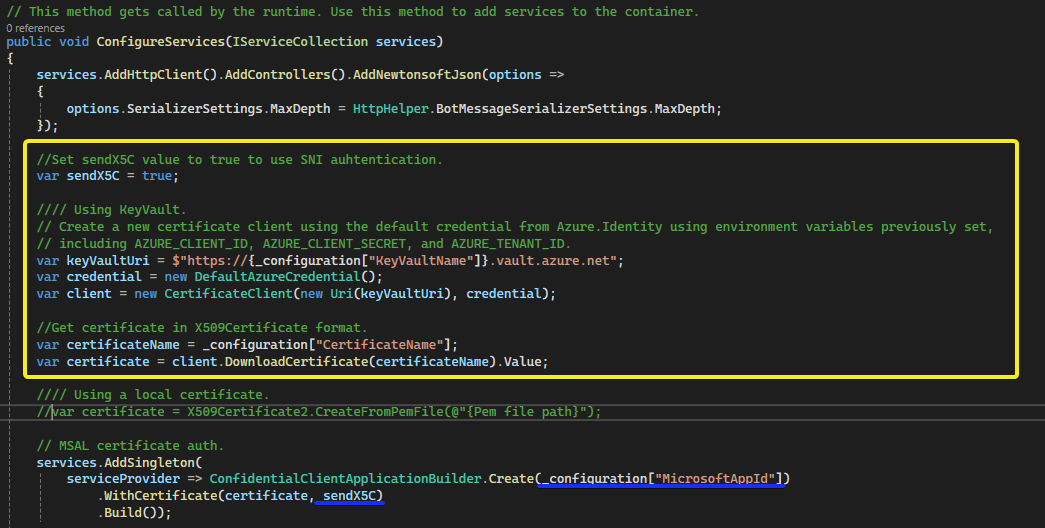
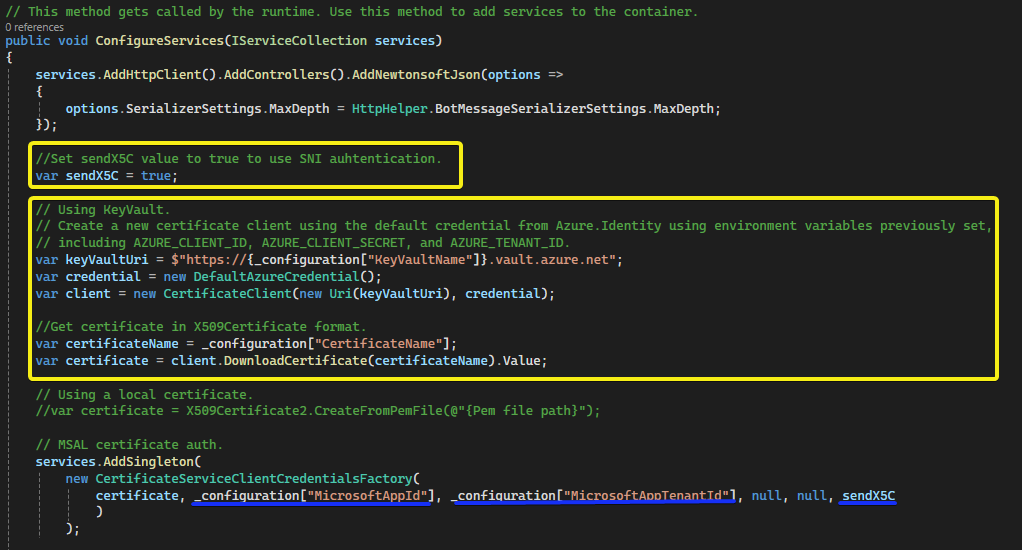
use CertificateServiceClientCredentialsFactory for SN+I auth

diff --git a/samples/csharp_dotnetcore/85.bot-authentication-sni/Startup.cs b/samples/csharp_dotnetcore/85.bot-authentication-sni/Startup.cs
@@ -53,9 +53,10 @@ namespace Microsoft.BotBuilderSamples
 
             // MSAL certificate auth.
             services.AddSingleton(
-                serviceProvider => ConfidentialClientApplicationBuilder.Create(_configuration["MicrosoftAppId"])
-                    .WithCertificate(certificate, sendX5C)
-                    .Build());
+                new CertificateServiceClientCredentialsFactory(
+                    certificate, _configuration["MicrosoftAppId"], _configuration["MicrosoftAppTenantId"], null, null, sendX5C
+                    )
+                );
 
             // MSAL credential factory: regardless of secret, cert or custom auth, need to add the line below to enable MSAL.
             services.AddSingleton<ServiceClientCredentialsFactory, MsalServiceClientCredentialsFactory>();

diff --git a/samples/csharp_dotnetcore/85.bot-authentication-sni/README.md b/samples/csharp_dotnetcore/85.bot-authentication-sni/README.md
@@ -102,7 +102,7 @@ Certificate Subject Name and Issuer (SNI) based authentication is currently avai
   Be sure to comment out or remove the lines of code that use Azure KeyVault to avoid errors.
   Keep in mind that the SNI authentication works with the sendX5C flag, keep its value in _true_.
   
-      > NOTE: Here the value of `MicrosoftAppId` is needed to generate the credentials.
+      > NOTE: Here the values of `MicrosoftAppId` and `MicrosoftTenantId` are needed to generate the credentials.
 
       ![Certificate Reading](Images/Local/CertificateReading.png)
 
@@ -140,7 +140,7 @@ Certificate Subject Name and Issuer (SNI) based authentication is currently avai
   5. In the sample code, go to the [Startup](Startup.cs) class and uncomment the line of code that reads the keyvault certificate and verify that the keyvault credentials are completed in the [appsettings](appsettings.json) file.
   Be sure to comment out or remove the lines of code that use local certificate to avoid errors.
   Keep in mind that the SNI authentication works with the sendX5C flag, keep its value in _true_.
-      > NOTE: Here the value of `MicrosoftAppId` is also needed to generate the credentials.
+      > NOTE: Here the values of `MicrosoftAppId` and `MicrosoftTenantId` are also needed to generate the credentials.
 
       ![Certificate Reading](Images/KeyVault/CertificateReading.png)
 
